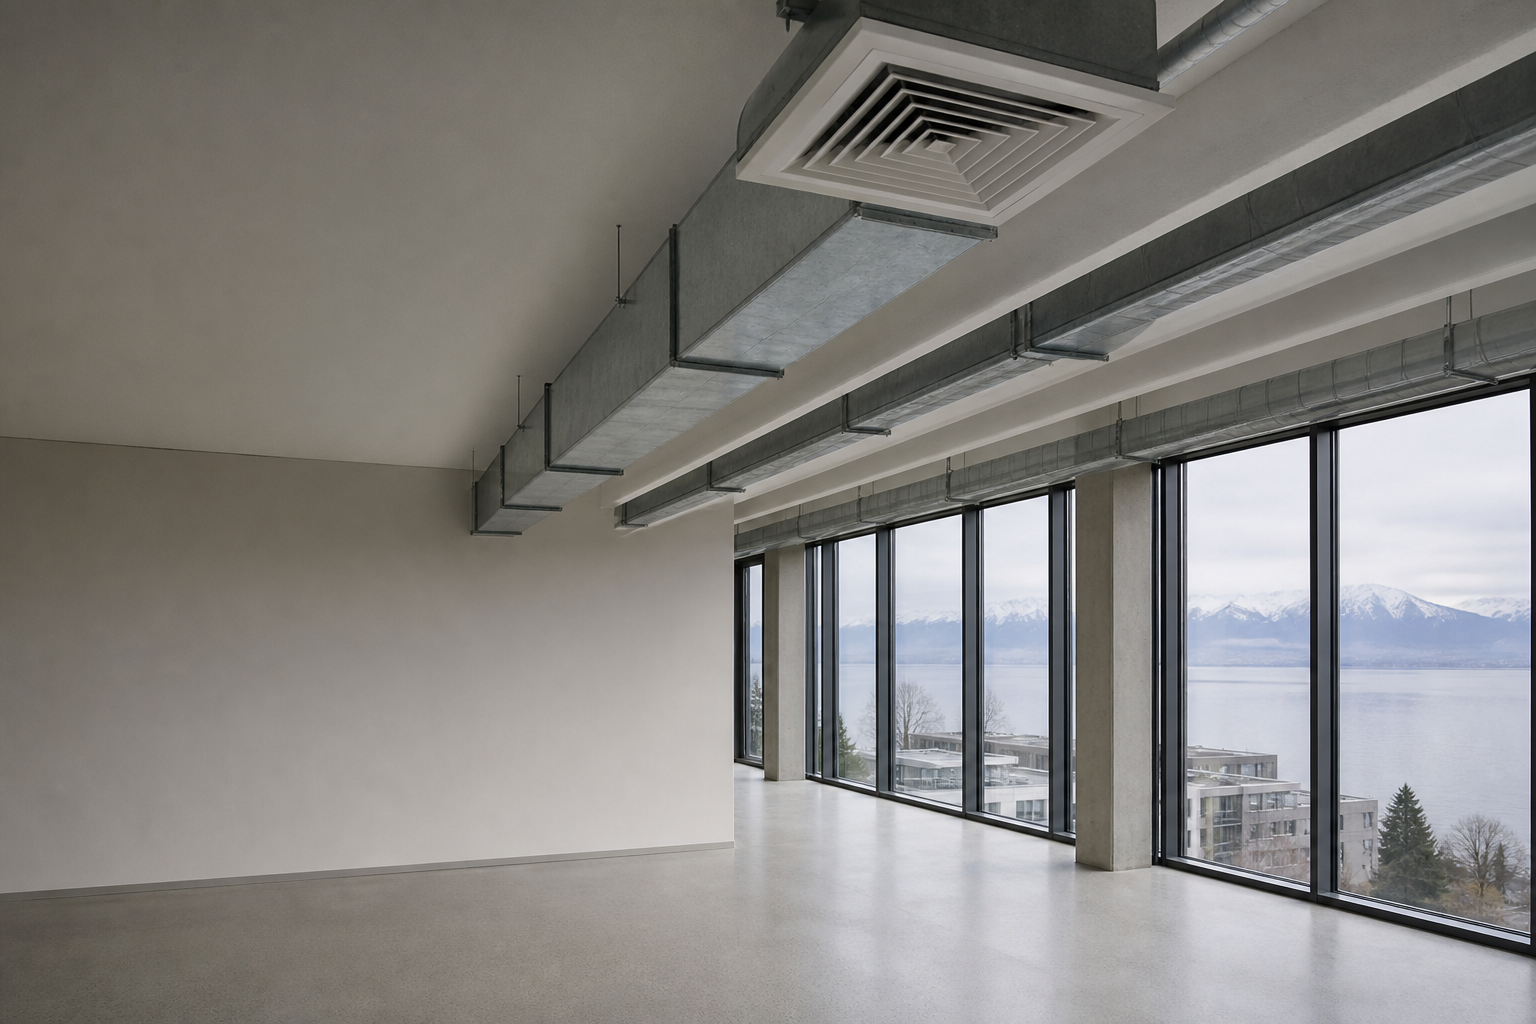
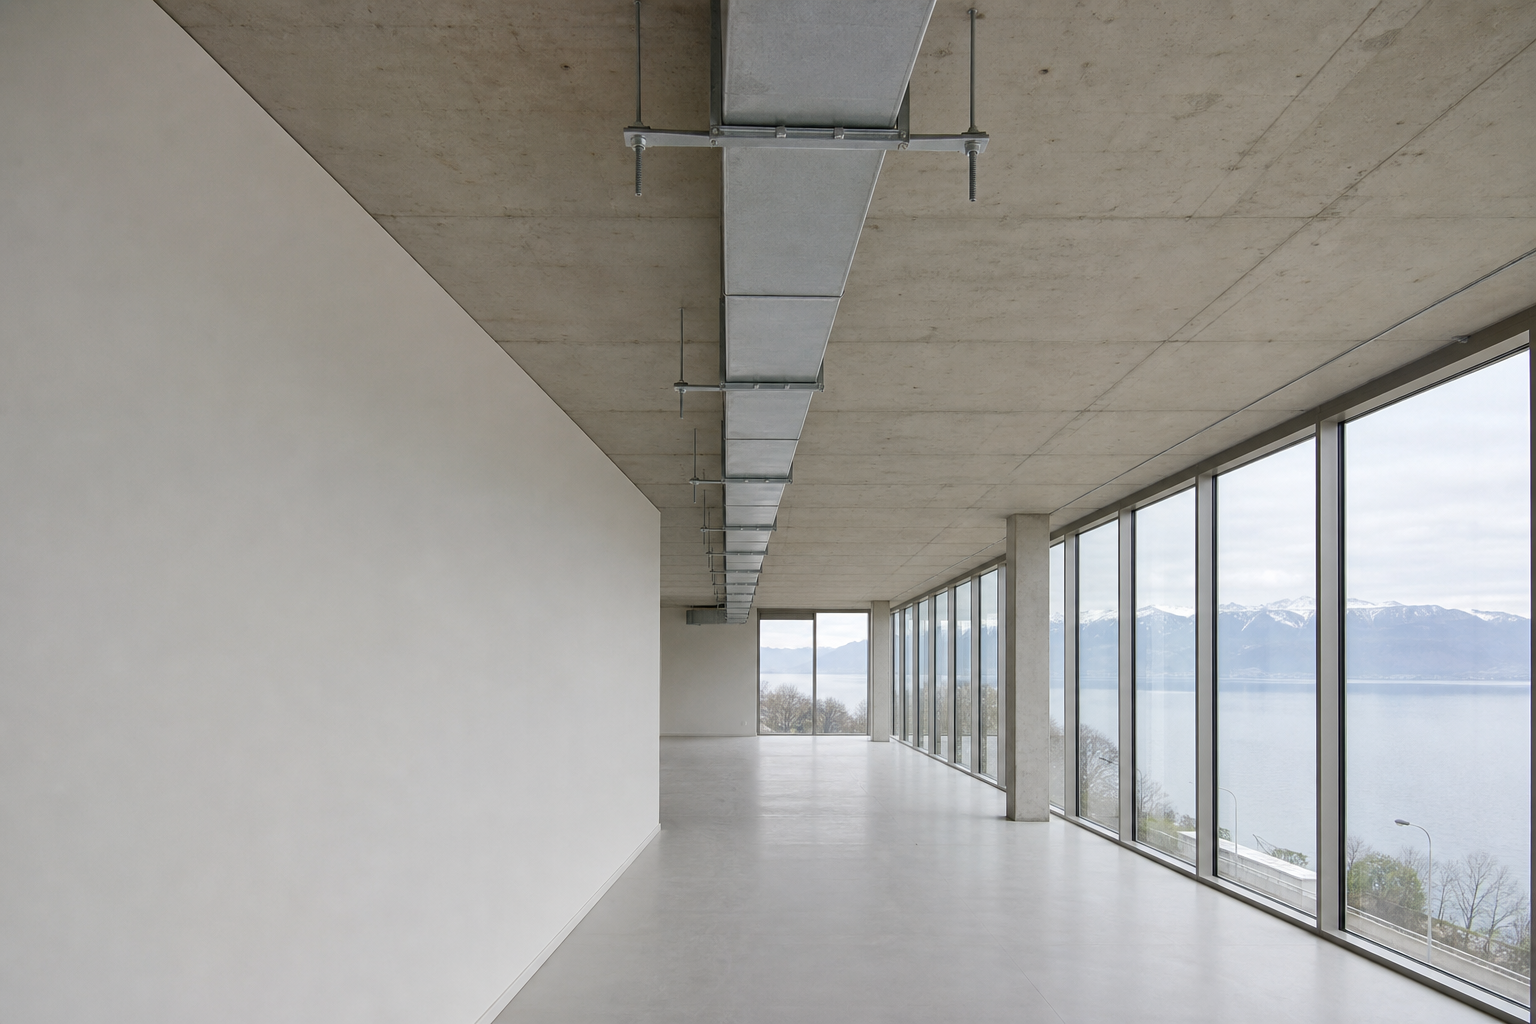
Replace the home hero with a single continuous duct run so the install looks physically coherent.

diff --git a/src/app/page.tsx b/src/app/page.tsx
@@ -33,12 +33,12 @@ export default function HomePage() {
         <div className="absolute inset-0">
           <Image
             src={heroPhoto}
-            alt="Gaines de ventilation rectangulaires sous plafond vitré, lumière naturelle — visuel d’ambiance, photographie de chantier à venir"
+            alt="Gaine de ventilation rectangulaire continue sous plafond vitré, lumière naturelle — visuel d’ambiance, photographie de chantier à venir"
             fill
             priority
             placeholder="blur"
             sizes="100vw"
-            className="object-cover object-[52%_42%] md:object-[68%_46%]"
+            className="object-cover object-[50%_32%] md:object-[58%_28%]"
           />
         </div>
         <div className="hero-veil absolute inset-0" aria-hidden />
